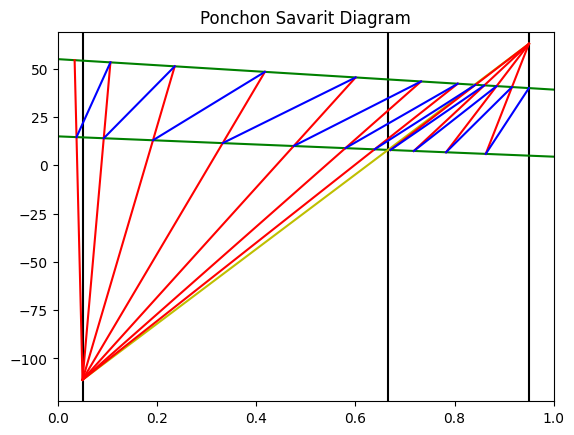
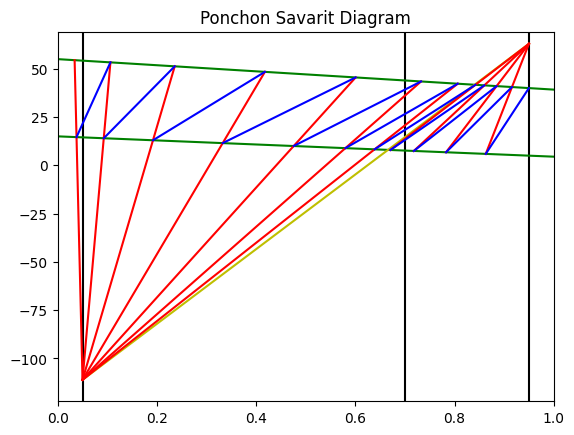
correct feedpoint vertical line in ponchon_savarit_full_est graph adjust README accordingly

diff --git a/chetoolbox/separations.py b/chetoolbox/separations.py
@@ -642,7 +642,7 @@ def ponchon_savarit_full_est(eq_curve: common.EqualibEq, liqlineH: common.Linear
     fig, ax = plt.subplots(); ax.set_title("Ponchon Savarit Diagram")
     plt.xlim(0, 1); plt.ylim(Hb * 1.1, Hp * 1.1)
     x = np.linspace(0., 1., 200)
-    ax.plot([xf]*200, np.linspace(Hb * 1.1, Hp * 1.1, 200), "k")
+    ax.plot([Fpoint[0]]*200, np.linspace(Hb * 1.1, Hp * 1.1, 200), "k")
     ax.plot([xb]*200, np.linspace(Hb * 1.1, Hp * 1.1, 200), "k")
     ax.plot([xd]*200, np.linspace(Hb * 1.1, Hp * 1.1, 200), "k")
     ax.plot(x, liqlineH.eval(x), "g")
